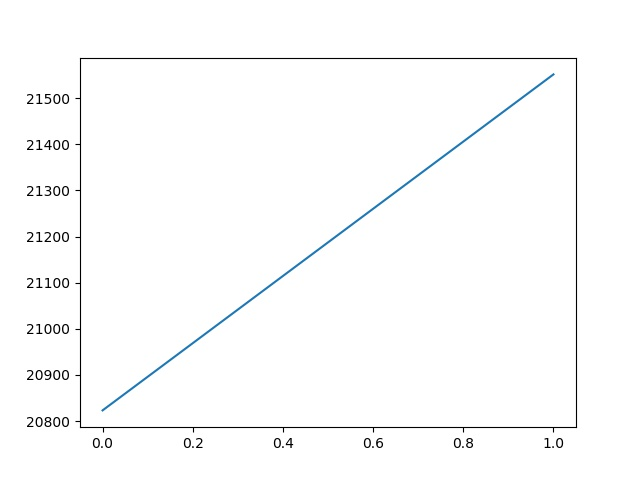
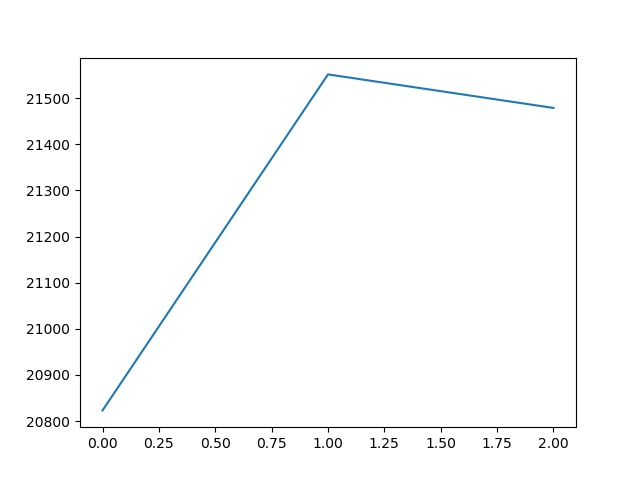
'auto'

diff --git a/README.md b/README.md
@@ -1,5 +1,5 @@
 Frizider live: 5
-21551.291666666668 
+21478.633333333335 
 0
 Temperatura:
 
